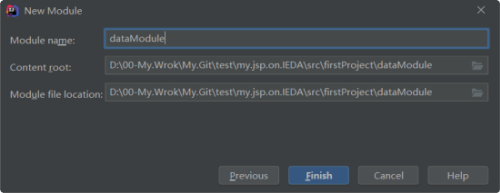
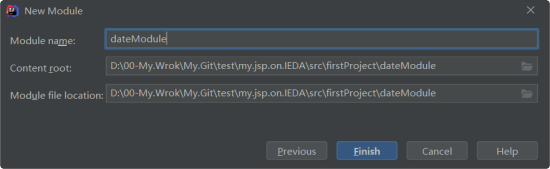
update project files, the last version can't run.

diff --git a/my.jsp.on.IEDA/note/my.jsp.on.IEDA.md b/my.jsp.on.IEDA/note/my.jsp.on.IEDA.md
@@ -12,29 +12,25 @@
 ![](images\02.png)
 .
 ![](images\03.png)
-.
+给新项目起名：firstProject
 ![](images\04.png)
 
-右键新建一个“Module”，在IEDA中`Project`相当于是VS中的`Solution`，而`Module`相当于是VS中的`Project`
+右键新建一个“Module”。在IEDA中`Project`相当于是VS中的`Solution`，而`Module`相当于是VS中的`Project`
 ![](images\05.png)
 .
 ![](images\06.png)
-.
+给新建的Module起名为：dateModule
 ![](images\07.png)
-.
+现在工程的目录是这样的。
 ![](images\08.png)
 
-
-
 从资源管理器中，在web/WEB-INF下创建两个文件夹：classes和lib。
-
 - classes用来存放编译后输出的class文件
-
 - lib用于存放第三方jar包。
 ![](images\09.png)
-.
+.打开“Project Structure”菜单，设置如下路径
 ![](images\10.png)
-.
+在“Dependencies”选项卡继续设置如下路径：
 ![](images\11.png)
 .
 ![](images\12.png)
@@ -70,4 +66,7 @@
   </body>
 </html>
 ```
-
+点击运行，在浏览器中就可以看到运行结果了。
+![](images\18.png)
+.
+![](images\19.png)
